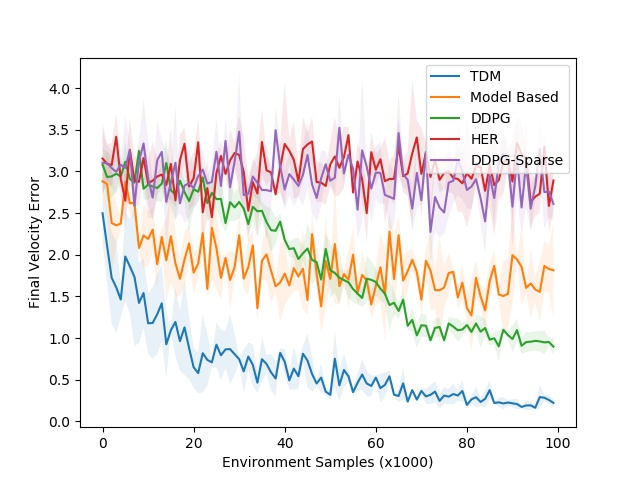
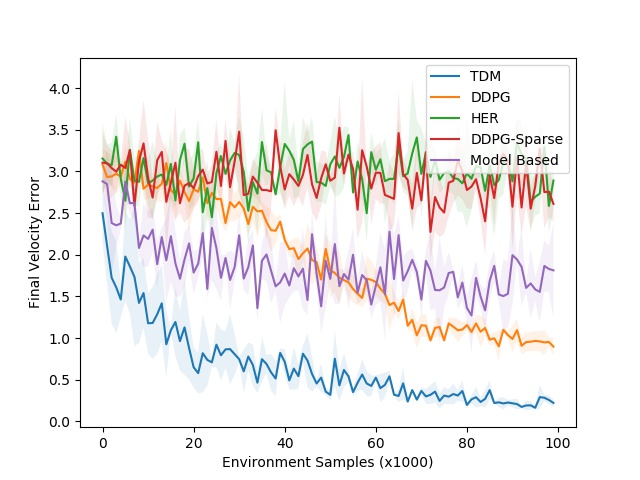
made final plots of iclr rebutal

Changed region(s): [[0.1562, 0.1875, 0.875, 0.7188]]

diff --git a/experiments/state_distance/iclr2018/pusher_results.py b/experiments/state_distance/iclr2018/pusher_results.py
@@ -1,15 +1,16 @@
-from railrl.misc.data_processing import Experiment
+from railrl.misc.data_processing import Experiment, get_trials
 import matplotlib.pyplot as plt
 import numpy as np
 
 from railrl.misc.visualization_util import sliding_mean
 
 def main():
-    her_andry_trials = Experiment(
-        "/home/vitchyr/git/railrl/data/doodads3/12-24-her-andrychowicz-pusher-rebutal/"
-    ).get_trials({
-        'exp_id': '11',
-    })
+    her_andry_trials = get_trials(
+        "/home/vitchyr/git/railrl/data/doodads3/12-24-her-andrychowicz-pusher-rebutal/",
+        criteria={
+            'exp_id': '11',
+        },
+    )
 
     ddpg_path = "/mnt/data-backup-12-02-2017/doodads3/10-25-ddpg-pusher-again-baseline-with-reward-bonus/"
     ddpg_criteria = {
@@ -25,30 +26,26 @@ def main():
         'epoch_discount_schedule_params.value': 5,
         'algo_params.tau': 0.001,
     }
-    ddpg_indicator_trials = Experiment(
-        "/home/vitchyr/git/railrl/data/doodads3/12-23-ddpg-sparse-sweep-4/"
-    ).get_trials({
-        'env_class.$class': 'railrl.envs.multitask.pusher2d.CylinderXYPusher2DEnv',
-        'ddpg_tdm_kwargs.base_kwargs.num_updates_per_env_step': 1,
-    })
-
-    ddpg_exp = Experiment(ddpg_path)
-    mb_exp = Experiment(mb_path)
-    our_exp = Experiment(our_path)
-
-    ddpg_trials = ddpg_exp.get_trials(ddpg_criteria)
-    mb_trials = mb_exp.get_trials(mb_criteria)
-    our_trials = our_exp.get_trials(our_criteria)
+    ddpg_trials = get_trials(ddpg_path, criteria=ddpg_criteria)
+    mb_trials = get_trials(mb_path, criteria=mb_criteria)
+    our_trials = get_trials(our_path, criteria=our_criteria)
+    ddpg_sparse_trials = get_trials(
+        "/home/vitchyr/git/railrl/data/doodads3/12-23-ddpg-sparse-sweep-4/",
+        criteria={
+            'env_class.$class': 'railrl.envs.multitask.pusher2d.CylinderXYPusher2DEnv',
+            'ddpg_tdm_kwargs.base_kwargs.num_updates_per_env_step': 1,
+        }
+    )
     MAX_ITERS = 100
 
     base_key = 'Final_Euclidean_distance_to_goal_Mean'
     plt.figure()
     for trials, name, key in [
         (our_trials, 'TDM', 'test_'+base_key),
-        (mb_trials, 'Model Based', base_key),
         (ddpg_trials, 'DDPG', base_key),
         (her_andry_trials, 'HER', "Final Distance object to goal Mean"),
-        (ddpg_indicator_trials, 'DDPG-Sparse', "Final Distance object to goal Mean"),
+        (ddpg_sparse_trials, 'DDPG-Sparse', "Final Distance object to goal Mean"),
+        (mb_trials, 'Model Based', base_key),
     ]:
         key = key.replace(" ", "_")
         all_values = []
@@ -57,10 +54,13 @@ def main():
             values_ts = trial.data[key]
             min_len = min(min_len, len(values_ts))
             all_values.append(values_ts)
-        costs = np.vstack([
-            values[:min_len]
-            for values in all_values
-        ])
+        try:
+            costs = np.vstack([
+                values[:min_len]
+                for values in all_values
+            ])
+        except ValueError as e:
+            import ipdb; ipdb.set_trace()
         costs = costs[:, :min(costs.shape[1], MAX_ITERS)]
         if name == 'HER':
             costs = sliding_mean(costs, 20)
@@ -74,7 +74,7 @@ def main():
 
     # plt.xscale('log')
     plt.xlabel("Environment Samples (x1000)")
-    plt.ylabel("Final Distance to Goal")
+    plt.ylabel("Final Distance to Goal Position")
     plt.legend()
     plt.savefig('results/iclr2018/pusher.jpg')
     plt.show()

diff --git a/experiments/state_distance/iclr2018/nupo_ant_max_distance_6.py b/experiments/state_distance/iclr2018/nupo_ant_max_distance_6.py
@@ -1,0 +1,80 @@
+from railrl.misc.data_processing import Experiment
+import matplotlib.pyplot as plt
+import numpy as np
+
+from railrl.misc.visualization_util import sliding_mean
+
+
+def main():
+    relabel_exp = Experiment(
+        "/home/vitchyr/git/railrl/data/doodads3/01-02-ddpg-tdm-ant-nupo-sweep/",
+        criteria={
+            'relabel': True,
+            'ddpg_tdm_kwargs.base_kwargs.reward_scale': 1,
+        }
+    )
+    no_relabel_exp = Experiment(
+        "/home/vitchyr/git/railrl/data/doodads3/01-02-ddpg-tdm-ant-nupo-sweep/",
+        criteria={
+            'relabel': False,
+            'ddpg_tdm_kwargs.base_kwargs.reward_scale': 1,
+        }
+    )
+
+    MAX_ITERS = 100
+
+    # ax1 = fig.add_subplot(211)
+    # ax2 = fig.add_subplot(212)
+    plot_key = 'Final Distance to goal Mean'.replace(' ', '_')
+    # for ax, exp, name in [
+    #     (ax1, relabel_exp, 'Relabel'),
+    #     (ax2, no_relabel_exp, 'No Relabel'),
+    # ]:
+    for exp, name in [
+        (relabel_exp, 'Relabel'),
+        (no_relabel_exp, 'No Relabel'),
+    ]:
+        fig = plt.figure()
+        for nupo in [1, 5, 10]:
+            trials = exp.get_trials({
+                'ddpg_tdm_kwargs.base_kwargs.num_updates_per_env_step': nupo
+            })
+            all_values = []
+            for trial in trials:
+                try:
+                    values_ts = trial.data[plot_key]
+                    values_ts = sliding_mean(values_ts, window=10)
+                except:
+                    import ipdb; ipdb.set_trace()
+                all_values.append(values_ts)
+            min_len = min(map(len, all_values))
+            costs = np.vstack([
+                values[:min_len]
+                for values in all_values
+            ])
+            costs = costs[:, :min(costs.shape[1], MAX_ITERS)]
+            mean = np.mean(costs, axis=0)
+            std = np.std(costs, axis=0)
+            epochs = np.arange(0, len(costs[0]))
+            plt.fill_between(epochs, mean - std, mean + std, alpha=0.1)
+            plt.plot(epochs, mean, label="{} updates per step".format(
+                nupo
+            ))
+        # plt.title(name)
+
+        plt.xlabel("Environment Samples (x1,000)")
+        plt.ylabel("Final Distance to Goal Position")
+        plt.legend()
+        # print(fig.get_size_inches())
+        # fig.set_size_inches(6.4*1, 4.8*2)
+        plt.savefig(
+            'results/iclr2018/ant-nupo-sweep-{}.jpg'.format(
+                name.lower().replace(' ', '-')
+            ),
+            # transparent=True, bbox_inches='tight', pad_inches=0,
+        )
+        plt.show()
+
+
+if __name__ == '__main__':
+    main()

diff --git a/experiments/state_distance/iclr2018/ant_target_pos_and_vel_results.py b/experiments/state_distance/iclr2018/ant_target_pos_and_vel_results.py
@@ -42,39 +42,45 @@ def main():
         }
     )
 
-    MAX_ITERS = 1000000
+    MAX_ITERS = 300
 
     plt.figure()
     key = 'Final_Weighted_Error_Mean'
     for trials, name in [
         (tdm_trials, 'TDM'),
-        (mb_trials, 'Model-Based'),
         (ddpg_trials, 'DDPG'),
         (her_trials, 'HER'),
         (ddpg_sparse_trials, 'DDPG-Sparse'),
+        (mb_trials, 'Model-Based'),
     ]:
         all_values = []
         for trial in trials:
             try:
                 values_ts = trial.data[key]
-                values_ts = sliding_mean(values_ts, window=10)
+                values_ts = sliding_mean(values_ts, window=5)
             except:
                 import ipdb; ipdb.set_trace()
             all_values.append(values_ts)
         min_len = min(map(len, all_values))
+        # max_len = max(map(len, all_values))
+        # all_values = [
+        #     np.pad(values, (0, max_len - len(values)), 'constant',
+        #            constant_values=np.nan)
+        #     for values in all_values
+        # ]
         costs = np.vstack([
             values[:min_len]
             for values in all_values
         ])
         costs = costs[:, :min(costs.shape[1], MAX_ITERS)]
-        mean = np.mean(costs, axis=0)
-        std = np.std(costs, axis=0)
+        mean = np.nanmean(costs, axis=0)
+        std = np.nanstd(costs, axis=0)
         epochs = np.arange(0, len(costs[0]))
         plt.fill_between(epochs, mean - std, mean + std, alpha=0.1)
         plt.plot(epochs, mean, label=name)
 
     plt.xlabel("Environment Samples (x1,000)")
-    plt.ylabel("Final Weighted Distance to Goal Position")
+    plt.ylabel("Final Distance to Goal Position and Velocity")
     plt.legend()
     plt.savefig('results/iclr2018/ant-pos-and-vel.jpg')
     plt.show()

diff --git a/experiments/state_distance/iclr2018/sawyer_results.py b/experiments/state_distance/iclr2018/sawyer_results.py
@@ -20,12 +20,12 @@ plt.figure()
 prop_cycle = plt.rcParams['axes.prop_cycle']
 colors = prop_cycle.by_key()['color']
 for trials, name, key in [
+    (tdm_csvs, 'TDM',
+     'Test_Final_Distance_from_Desired_End_Effector_Position_Mean'),
     (ddpg_csvs, 'DDPG',
      'Test_Final_Distance_from_Desired_End_Effector_Position_Mean'),
     # (naf_csvs, 'NAF',
     #  'Test_Last_N_Step_Distance_from_Desired_End_Effector_Position_Mean'),
-    (tdm_csvs, 'TDM',
-     'Test_Final_Distance_from_Desired_End_Effector_Position_Mean'),
 ]:
     all_values = []
     min_len = np.inf
@@ -46,9 +46,9 @@ for trials, name, key in [
     epochs = np.arange(0, len(costs[0]))
     plt.fill_between(epochs, mean - std, mean + std, alpha=0.1)
     if name == 'TDM':
-        plt.plot(epochs, mean, label=name, color=colors[2])
+        plt.plot(epochs, mean, label=name)#, color=colors[0])
     else:
-        plt.plot(epochs, mean, label=name, color=colors[0])
+        plt.plot(epochs, mean, label=name)#, color=colors[1])
     # plt.plot(epochs, costs[0, :], label=name)
     # plt.plot(epochs, costs[1, :], label=name)
     # plt.plot(epochs, costs[2, :], label=name)

diff --git a/experiments/state_distance/iclr2018/ant_distance_6_results.py b/experiments/state_distance/iclr2018/ant_distance_6_results.py
@@ -14,7 +14,6 @@ def main():
         }
     )
     ddpg_trials = get_trials(
-        # "/home/vitchyr/git/railrl/data/doodads3/01-03-final-ant-max-distance-6/",
         "/home/vitchyr/git/railrl/data/doodads3/01-04-ddpg-ant-max-d-6-post-sweep/",
         criteria={
             'algorithm': 'DDPG',
@@ -50,10 +49,10 @@ def main():
     # key = 'Multitask Final L2 distance to goal Mean'
     for trials, name in [
         (tdm_trials, 'TDM'),
-        (mb_trials, 'Model-Based'),
         (ddpg_trials, 'DDPG'),
         (her_trials, 'HER'),
         (ddpg_sparse_trials, 'DDPG-Sparse'),
+        (mb_trials, 'Model-Based'),
     ]:
         key = key.replace(" ", "_")
         all_values = []
@@ -86,7 +85,7 @@ def main():
         plt.plot(epochs, mean, label=name)
 
     plt.xlabel("Environment Samples (x1,000)")
-    plt.ylabel("Final Euclidean Distance to Goal Position")
+    plt.ylabel("Final Distance to Goal Position")
     plt.legend()
     plt.savefig('results/iclr2018/ant-max-distance-6.jpg')
     plt.show()

diff --git a/experiments/state_distance/iclr2018/reacher_results.py b/experiments/state_distance/iclr2018/reacher_results.py
@@ -48,10 +48,10 @@ base_key = 'Final_Euclidean_distance_to_goal_Mean'
 plt.figure()
 for trials, name, key in [
     (tdm_trials, 'TDM', 'test_' + base_key),
-    (mb_trials, 'Model Based', base_key),
     (ddpg_trials, 'DDPG', base_key),
     (her_andry_trials, 'HER', base_key),
     (ddpg_indicator_trials, 'DDPG-Sparse', base_key),
+    (mb_trials, 'Model Based', base_key),
 ]:
     all_values = []
     min_len = np.inf
@@ -71,7 +71,7 @@ for trials, name, key in [
     plt.plot(epochs, mean, label=name)
 
 plt.xlabel("Environment Steps (x1000)")
-plt.ylabel("Final Distance to Goal")
+plt.ylabel("Final Distance to Goal Position")
 plt.legend()
 plt.savefig('results/iclr2018/reacher.jpg')
 plt.show()

diff --git a/experiments/state_distance/iclr2018/cheetah_results.py b/experiments/state_distance/iclr2018/cheetah_results.py
@@ -39,10 +39,10 @@ MAX_ITERS = 100
 plt.figure()
 for trials, name, key in [
     (tdm_trials, 'TDM', 'Final_xvel_errors_Mean'),
-    (mb_trials, 'Model Based', 'Final_xvel_errors_Mean'),
     (ddpg_trials, 'DDPG', 'Final_xvel_errors_Mean'),
     (her_andry_trials, 'HER', 'Final_xvel_errors_Mean'),
     (ddpg_indicator_trials, 'DDPG-Sparse', 'Final_xvel_errors_Mean'),
+    (mb_trials, 'Model Based', 'Final_xvel_errors_Mean'),
 ]:
     if len(trials) == 0:
         print(name)

diff --git a/experiments/state_distance/iclr2018/vectorized_vs_not_vectorized.py b/experiments/state_distance/iclr2018/vectorized_vs_not_vectorized.py
@@ -1,7 +1,4 @@
-"""
-TODO: rerun with full state env
-"""
-from railrl.misc.data_processing import Experiment
+from railrl.misc.data_processing import Experiment, get_trials
 import matplotlib.pyplot as plt
 import numpy as np
 
